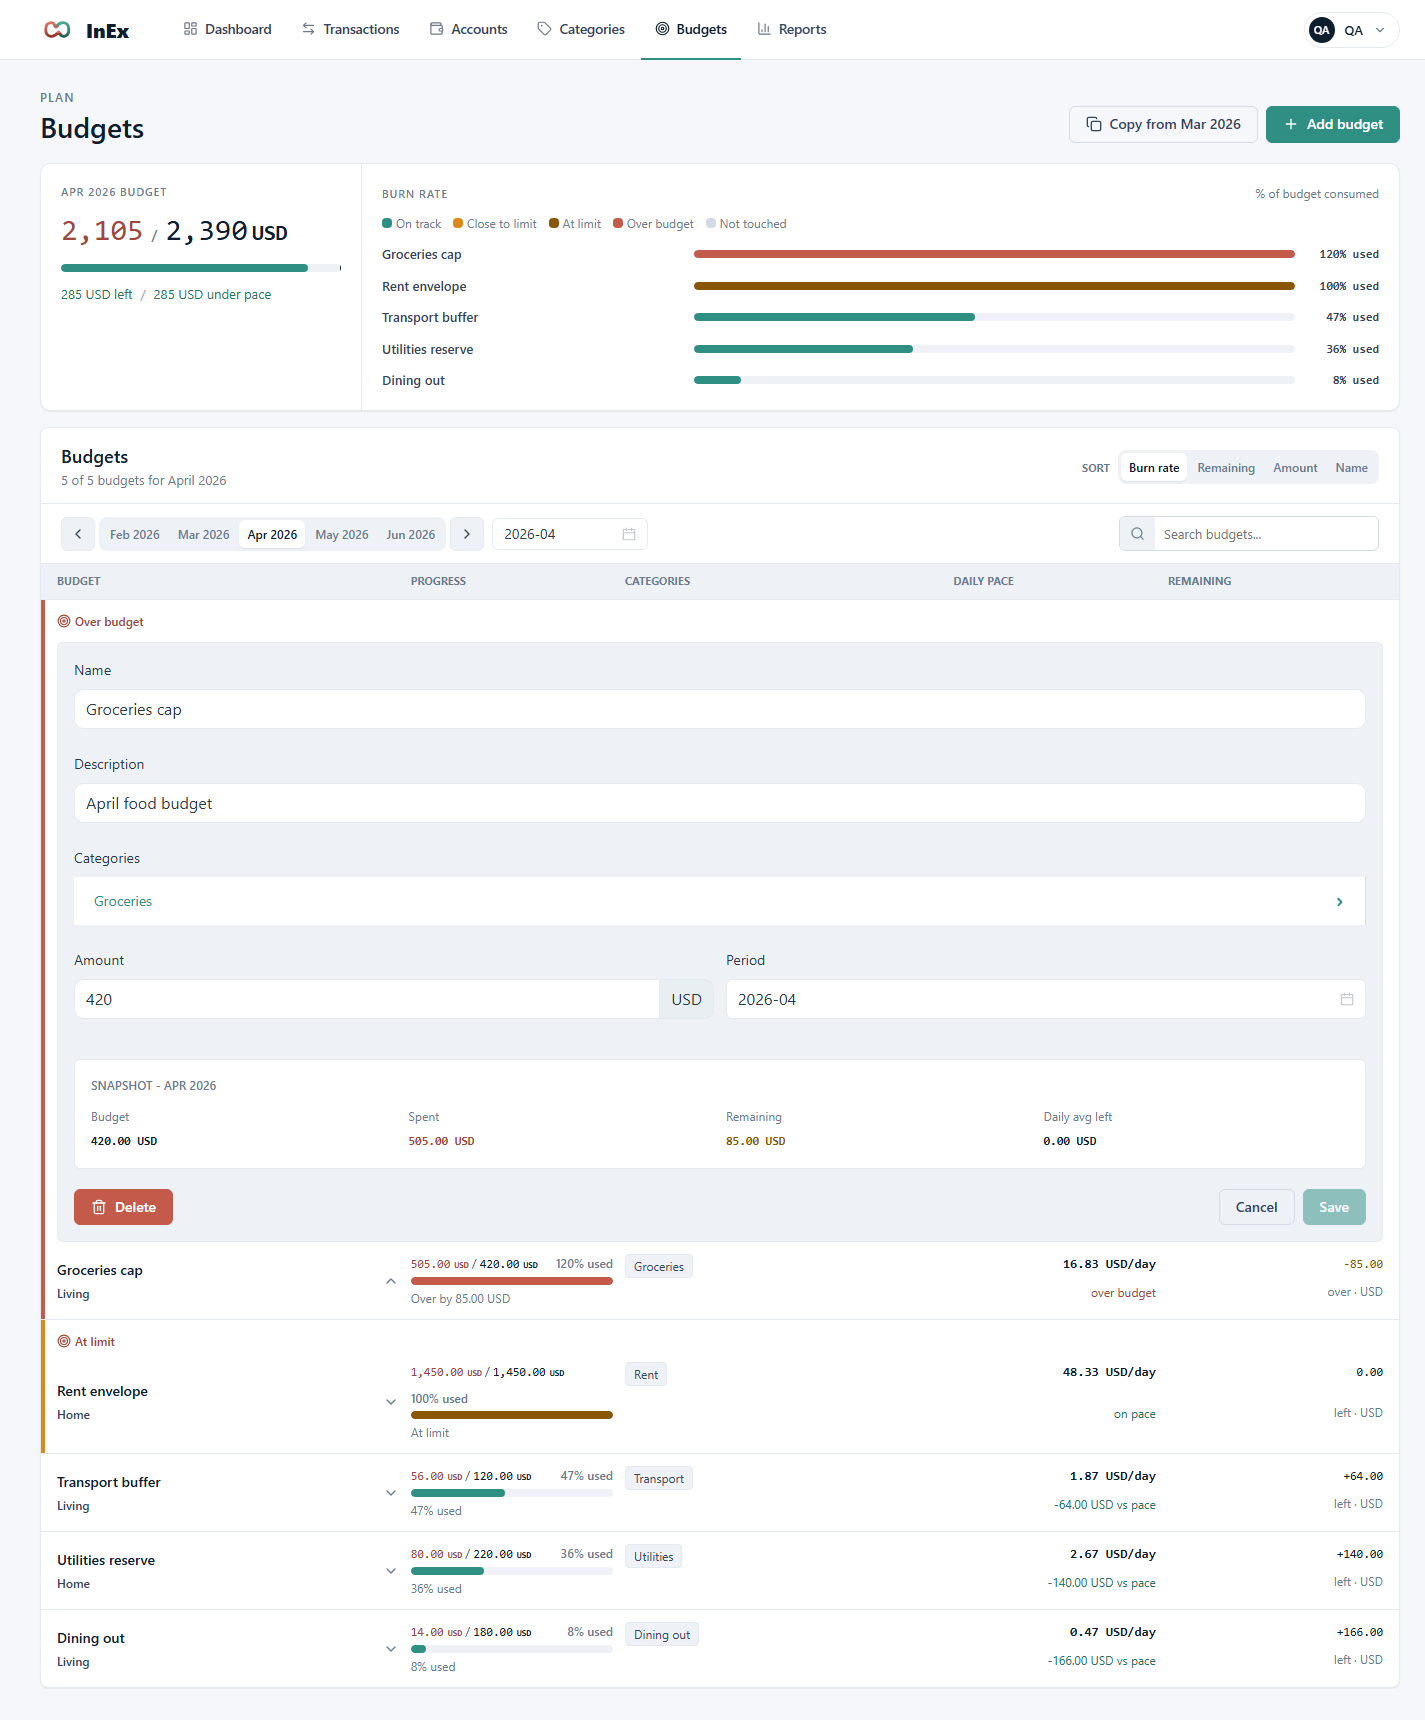
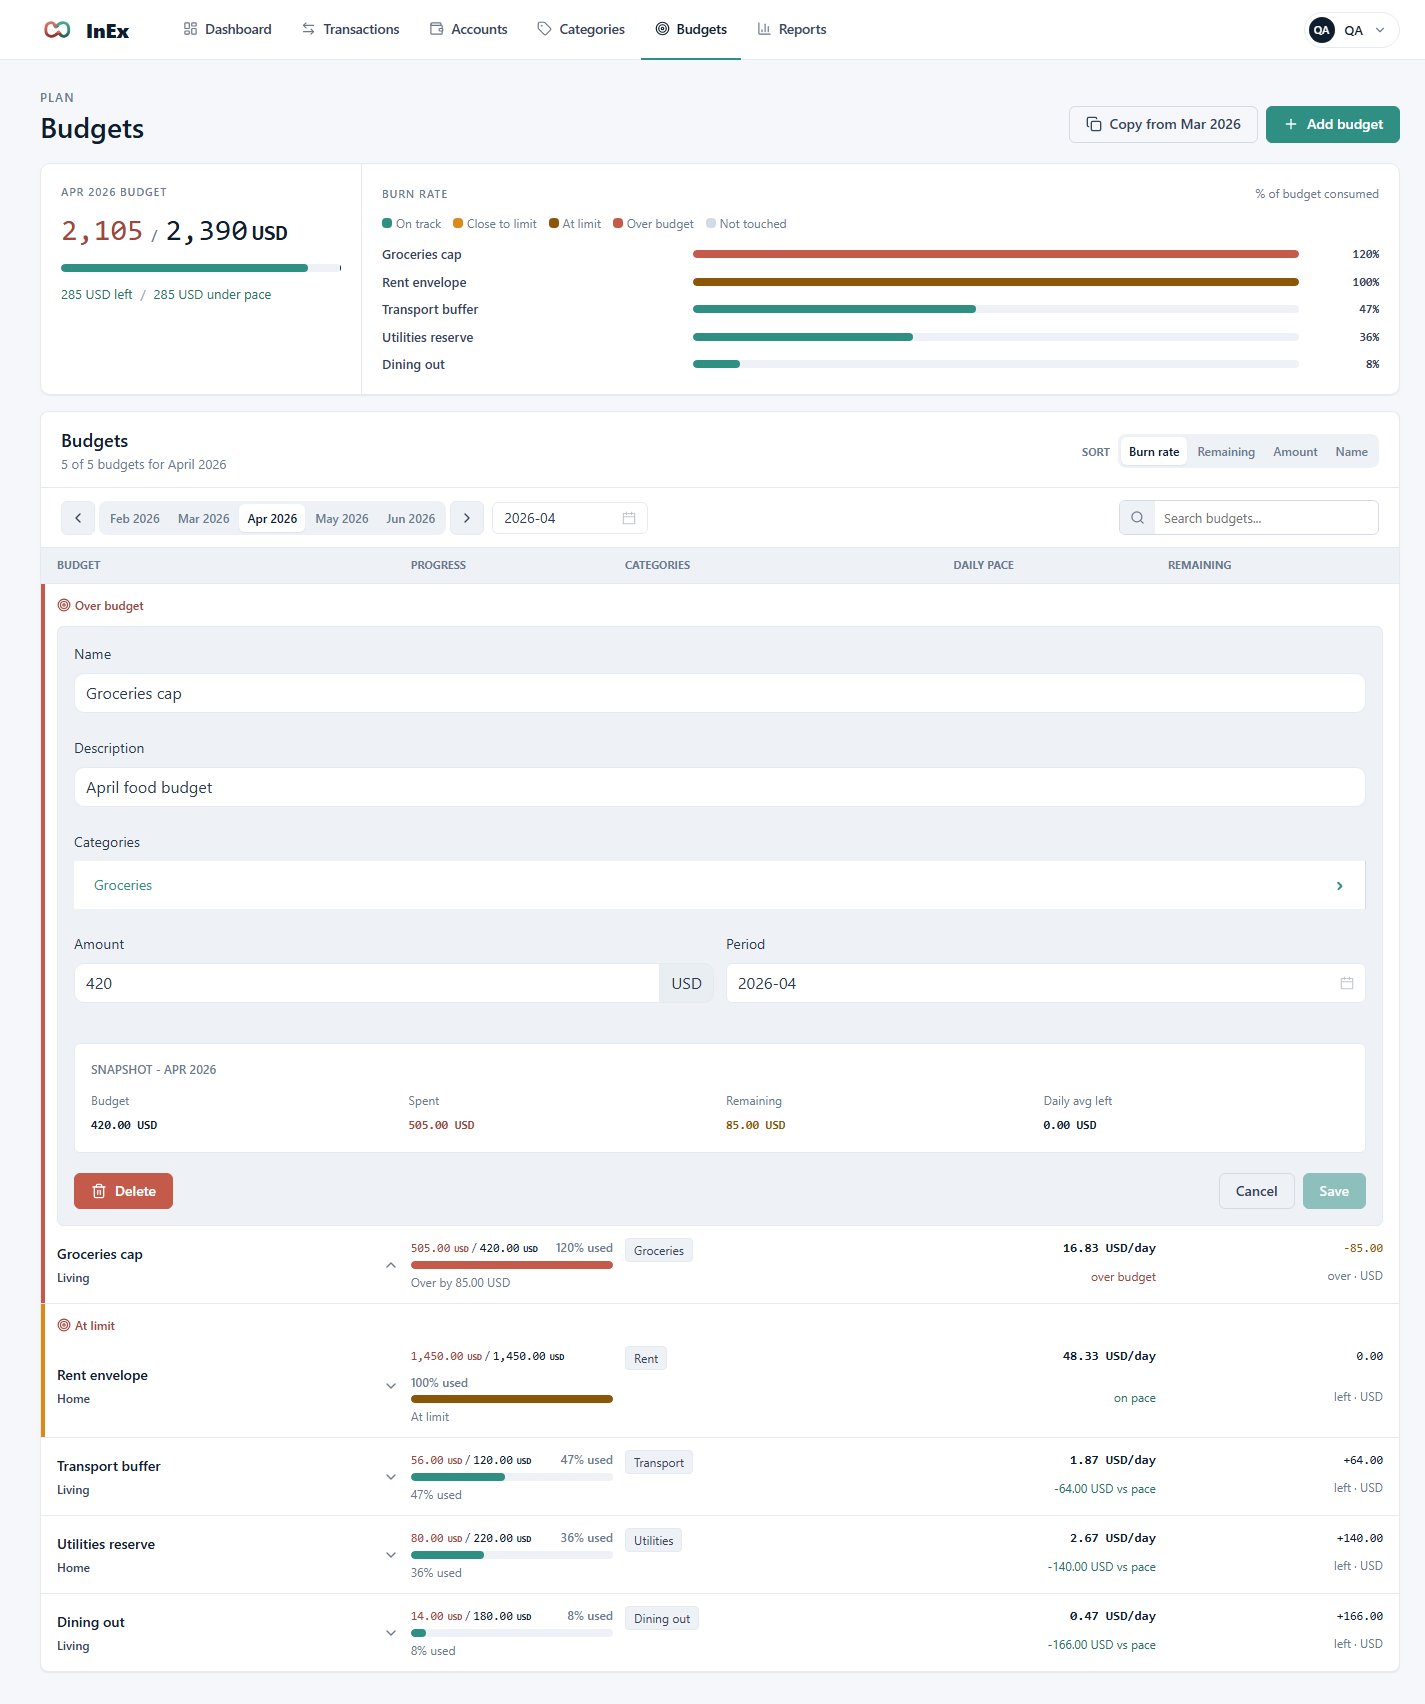
fix(budgets): tighten spending pace rows

diff --git a/inex/ClientApp/src/pages/Budgets.tsx b/inex/ClientApp/src/pages/Budgets.tsx
@@ -675,8 +675,12 @@ const Budgets = () => {
                                     {highestBurnBudgets.map(({ budget, percentUsed: rowPercent, status }) => (
                                         <div className="budgets-burn-row" key={budget.id}>
                                             <span title={budget.name}>{budget.name}</span>
-                                            <UsageBar percent={rowPercent} status={status} />
-                                            <strong>{t("budgets.percentUsed", { percent: Math.round(rowPercent) })}</strong>
+                                            <UsageBar
+                                                percent={rowPercent}
+                                                status={status}
+                                                ariaLabel={t("budgets.percentUsed", { percent: Math.round(rowPercent) })}
+                                            />
+                                            <strong>{t("budgets.percent", { percent: Math.round(rowPercent) })}</strong>
                                         </div>
                                     ))}
                                 </div>
@@ -1083,12 +1087,13 @@ const PaceCell: React.FC<PaceDisplayProps> = ({ pace, currency }) => {
 interface UsageBarProps {
     percent: number;
     status: BudgetUsageStatus;
+    ariaLabel?: string;
     markerPercent?: number;
     markerLabel?: string;
     dataQa?: string;
 }
 
-const UsageBar: React.FC<UsageBarProps> = ({ percent, status, markerPercent, markerLabel, dataQa }) => {
+const UsageBar: React.FC<UsageBarProps> = ({ percent, status, ariaLabel, markerPercent, markerLabel, dataQa }) => {
     const clampedPercent = Math.max(0, Math.min(100, percent));
     const roundedPercent = Math.round(clampedPercent);
     const clampedMarkerPercent = markerPercent === undefined
@@ -1100,6 +1105,7 @@ const UsageBar: React.FC<UsageBarProps> = ({ percent, status, markerPercent, mar
             aria-valuemax={100}
             aria-valuemin={0}
             aria-valuenow={roundedPercent}
+            aria-label={ariaLabel}
             className={`budget-usage-bar is-${status}`}
             data-qa={dataQa}
             role="progressbar"

diff --git a/inex/ClientApp/src/pages/Budgets/budgets.css b/inex/ClientApp/src/pages/Budgets/budgets.css
@@ -184,13 +184,13 @@
 
 .budgets-hero__burn-list {
   display: grid;
-  gap: var(--space-3);
+  gap: var(--space-2);
 }
 
 .budgets-burn-row {
   align-items: center;
   display: grid;
-  gap: var(--space-3);
+  gap: var(--space-2);
   grid-template-columns: minmax(90px, 1fr) minmax(120px, 2fr) 72px;
   min-width: 0;
 }

diff --git a/inex/ClientApp/src/i18n.ts b/inex/ClientApp/src/i18n.ts
@@ -7,7 +7,7 @@ function syncDayjsLocale(lang: string) {
     dayjs.locale(lang === "ru" ? "ru" : "en");
 }
 
-const localeResourceVersion = "2026-08-29-internal-transfer-reports";
+const localeResourceVersion = "2026-09-16-budget-spending-pace";
 
 i18n
     .use(HttpBackend)
